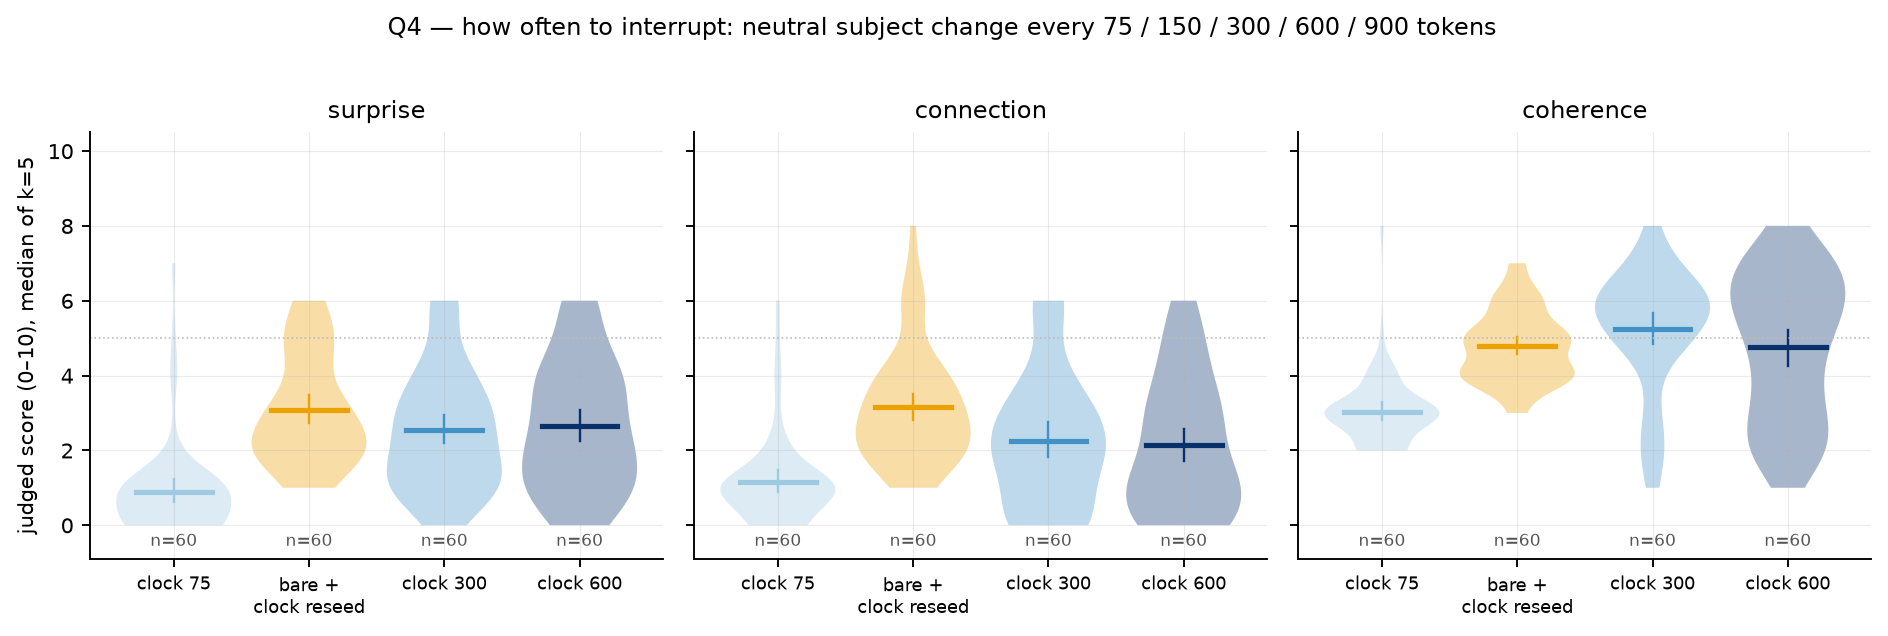
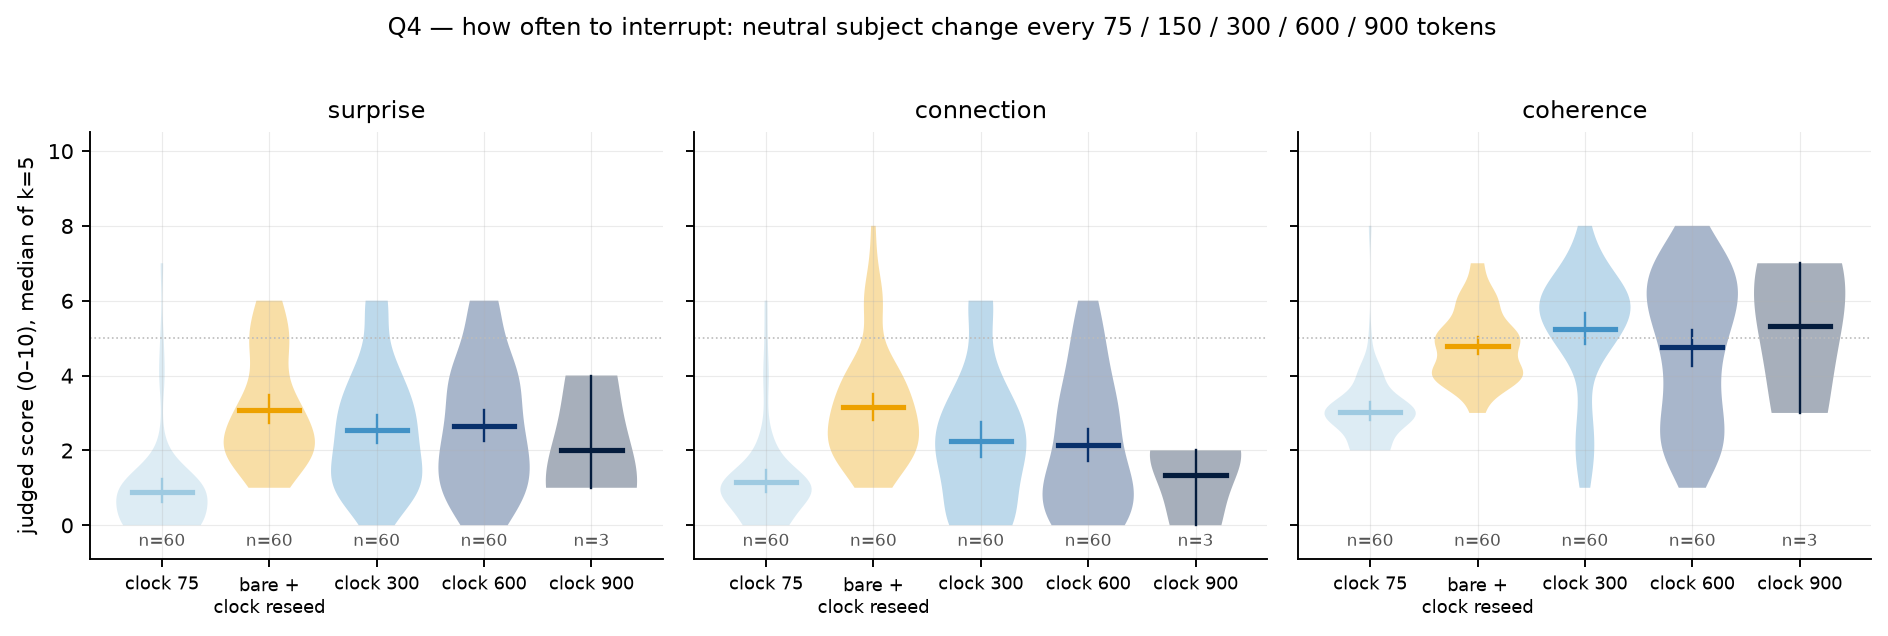
PAPER_DREAM §5.1: frequency/phase result — the yield of an interruption depends on the thread it breaks and decays

diff --git a/docs/APPENDIX_B2.md b/docs/APPENDIX_B2.md
@@ -1,6 +1,6 @@
 # Appendix — battery 2 (auto-generated by scripts/analysis_b2.py)
 
-988 judged windows total (726 from battery 2).
+991 judged windows total (729 from battery 2).
 
 
 ### Q1 — the confound: habituation without interruption
@@ -55,7 +55,7 @@ vs **neutral subject change (clock 150)** (Δ mean, 95% bootstrap CI over window
 |---|---|---|---|---|---|---|
 | re-encounter on the clock (150) | 60 | cut | 2.28 ± 1.61 | 3.03 ± 1.97 | 4.30 ± 1.54 | 5/60 |
 | re-encounter on the clock (900; matched frequency) | 0 | — | — | — | — | 0/0 |
-| neutral change on the clock (900; matched frequency) | 0 | — | — | — | — | 0/0 |
+| neutral change on the clock (900; matched frequency) | 3 | cut | 2.00 ± 1.41 | 1.33 ± 0.94 | 5.33 ± 1.70 | 0/3 |
 | re-encounter on salience events (event windows) | 86 | crystallize/cut/jump/recurrence | 3.90 ± 1.43 | 2.85 ± 1.74 | 3.79 ± 1.18 | 8/86 |
 | re-encounter on salience events (uniform windows) | 60 | clock | 2.18 ± 2.04 | 1.68 ± 1.65 | 3.93 ± 1.88 | 4/60 |
 | re-encounter on the clock (900), uniform windows | 0 | — | — | — | — | 0/0 |
@@ -66,6 +66,9 @@ vs **re-encounter on the clock (150)** (Δ mean, 95% bootstrap CI over windows; 
 
 | condition | dim | Δ [CI] | δ | p | paired-by-seed Δ [CI] (n seeds) |
 |---|---|---|---|---|---|
+| neutral change on the clock (900; matched frequency) | surprise | -0.28 [-1.58, +1.59] | -0.08 | 8.3e-01 | — |
+| neutral change on the clock (900; matched frequency) | connection | **-1.70 [-2.97, -0.67]** | -0.53 | 1.2e-01 | — |
+| neutral change on the clock (900; matched frequency) | coherence | +1.03 [-1.22, +2.70] | +0.37 | 2.8e-01 | — |
 | re-encounter on salience events (event windows) | surprise | **+1.61 [+1.10, +2.11]** | +0.52 | 5.9e-08 | +1.47 [+0.75, +2.17] (10) |
 | re-encounter on salience events (event windows) | connection | -0.18 [-0.80, +0.42] | -0.07 | 4.5e-01 | -0.41 [-0.95, +0.12] (10) |
 | re-encounter on salience events (event windows) | coherence | **-0.51 [-0.97, -0.05]** | -0.19 | 5.2e-02 | -0.41 [-1.17, +0.30] (10) |
@@ -84,7 +87,7 @@ vs **re-encounter on the clock (150)** (Δ mean, 95% bootstrap CI over windows; 
 | every 150 (before injection) | 60 | clock | 3.08 ± 1.48 | 3.15 ± 1.53 | 4.78 ± 0.95 | 12/60 |
 | every 300 (before injection) | 60 | cut | 2.53 ± 1.61 | 2.25 ± 1.79 | 5.25 ± 1.62 | 7/60 |
 | every 600 (before injection) | 60 | cut | 2.64 ± 1.73 | 2.13 ± 1.79 | 4.77 ± 1.94 | 6/60 |
-| every 900 (before injection) | 0 | — | — | — | — | 0/0 |
+| every 900 (before injection) | 3 | cut | 2.00 ± 1.41 | 1.33 ± 0.94 | 5.33 ± 1.70 | 0/3 |
 | every 300 (mid-segment) | 60 | clock | 4.93 ± 1.53 | 3.47 ± 1.68 | 6.07 ± 0.98 | 34/60 |
 | every 600 (mid-segment) | 60 | clock | 4.12 ± 1.83 | 2.70 ± 1.63 | 5.65 ± 1.54 | 23/60 |
 | every 900 (mid-segment) | 0 | — | — | — | — | 0/0 |
@@ -102,6 +105,9 @@ vs **every 150 (before injection)** (Δ mean, 95% bootstrap CI over windows; Cli
 | every 600 (before injection) | surprise | -0.44 [-1.01, +0.14] | -0.16 | 1.2e-01 | -0.44 [-1.11, +0.12] (10) |
 | every 600 (before injection) | connection | **-1.02 [-1.60, -0.40]** | -0.35 | 9.3e-04 | -1.02 [-1.65, -0.45] (10) |
 | every 600 (before injection) | coherence | -0.02 [-0.57, +0.53] | +0.05 | 6.4e-01 | -0.02 [-0.58, +0.52] (10) |
+| every 900 (before injection) | surprise | -1.08 [-2.35, +0.77] | -0.45 | 1.8e-01 | — |
+| every 900 (before injection) | connection | **-1.82 [-3.08, -0.88]** | -0.68 | 4.4e-02 | — |
+| every 900 (before injection) | coherence | +0.55 [-1.73, +2.15] | +0.24 | 4.7e-01 | — |
 | every 300 (mid-segment) | surprise | **+1.85 [+1.30, +2.38]** | +0.60 | 9.0e-09 | +1.85 [+1.23, +2.33] (10) |
 | every 300 (mid-segment) | connection | +0.32 [-0.27, +0.88] | +0.13 | 2.0e-01 | +0.32 [-0.30, +0.77] (10) |
 | every 300 (mid-segment) | coherence | **+1.28 [+0.93, +1.62]** | +0.63 | 1.1e-09 | +1.28 [+0.88, +1.68] (10) |
@@ -117,3 +123,18 @@ vs **every 150 (before injection)** (Δ mean, 95% bootstrap CI over windows; Cli
 | 150 | 60 | 3.08 | 3.15 | 4.78 | 3.08 / 3.15 / 4.78 (n=60) | — / — / — (n=0) |
 | 300 | 110 | 4.01 | 3.12 | 5.98 | 5.28 / 3.35 / 5.95 (n=40) | 3.29 / 2.99 / 6.00 (n=70) |
 | 600 | 110 | 3.64 | 2.64 | 5.50 | 5.40 / 3.20 / 5.65 (n=20) | 3.24 / 2.51 / 5.47 (n=90) |
+| 900 | 2 | 2.50 | 2.00 | 6.50 | — / — / — (n=0) | 2.50 / 2.00 / 6.50 (n=2) |
+
+### Q5 — second generator family (Qwen3-8B-Base, 10 seeds)
+
+| condition | windows | kind | surprise | connection | coherence | good (S≥5&H≥5) |
+|---|---|---|---|---|---|---|
+| 8B: bare | 11 | clock/jump | 0.64 ± 1.07 | 0.45 ± 0.78 | 3.18 ± 1.99 | 0/11 |
+| 8B: bare + habituation | 0 | — | — | — | — | 0/0 |
+| 8B: bare + habituation + clock reseed 150 | 0 | — | — | — | — | 0/0 |
+| 8B: DREAM scaffold (λ=0) | 0 | — | — | — | — | 0/0 |
+
+vs **8B: bare + habituation** (Δ mean, 95% bootstrap CI over windows; Cliff's δ; Mann-Whitney p; paired-by-seed Δ [CI]):
+
+| condition | dim | Δ [CI] | δ | p | paired-by-seed Δ [CI] (n seeds) |
+|---|---|---|---|---|---|

diff --git a/docs/PAPER_DREAM.md b/docs/PAPER_DREAM.md
@@ -228,7 +228,24 @@ bootstrap CIs over the 10 seeds; Cliff's δ and Mann–Whitney on windows).
   back after being sent away — not when it is told to return.
 - **Timing.** [TBD — salience-timed re-encounter vs matched-frequency
   clock controls; judging]
-- **Frequency.** [TBD — 75/150/300/600/900; judging]
+- **Frequency: the yield of an interruption depends on the thread it
+  breaks, and decays with distance from it.** With the neutral change
+  every 75 tokens the stream is dead (surprise 0.88, δ = −0.83 vs 150):
+  nothing has time to develop. Every 150: 3.08. Every 300 and 600, the
+  windows that end within ~150 tokens *after* an interruption score
+  **5.28 / 3.60 / 6.08** and 5.23 / 3.10 / 5.70 (surprise / connection /
+  coherence; n = 50 and 30) — the highest values in the whole program,
+  and 34/60 of the 300-early windows are judged surprising *and*
+  coherent (12/60 at 150) — while windows deeper into the segment fall
+  back to ~3.0 / 2.7 / 5.9 and stay there (170–330 and 490–650 tokens
+  after the break: 2.95 and 3.06). The same window shape (a break plus
+  150 tokens of development) scores 3.08 when the broken thread was 150
+  tokens long and 5.3 when it was 300 or 600: surprise needs a developed
+  background to break. Over the whole stream the period 300 is best
+  (mean surprise 4.01, connection 3.12, coherence 5.98; 600: 3.64 /
+  2.64 / 5.50; 150: 3.08 / 3.15 / 4.78; 75: 0.88 / 1.35 / 3.15). The
+  loop's rhythm is: let a thread develop for a few hundred tokens, then
+  break it away.
 
 ### 5.2 A second generator family
 
